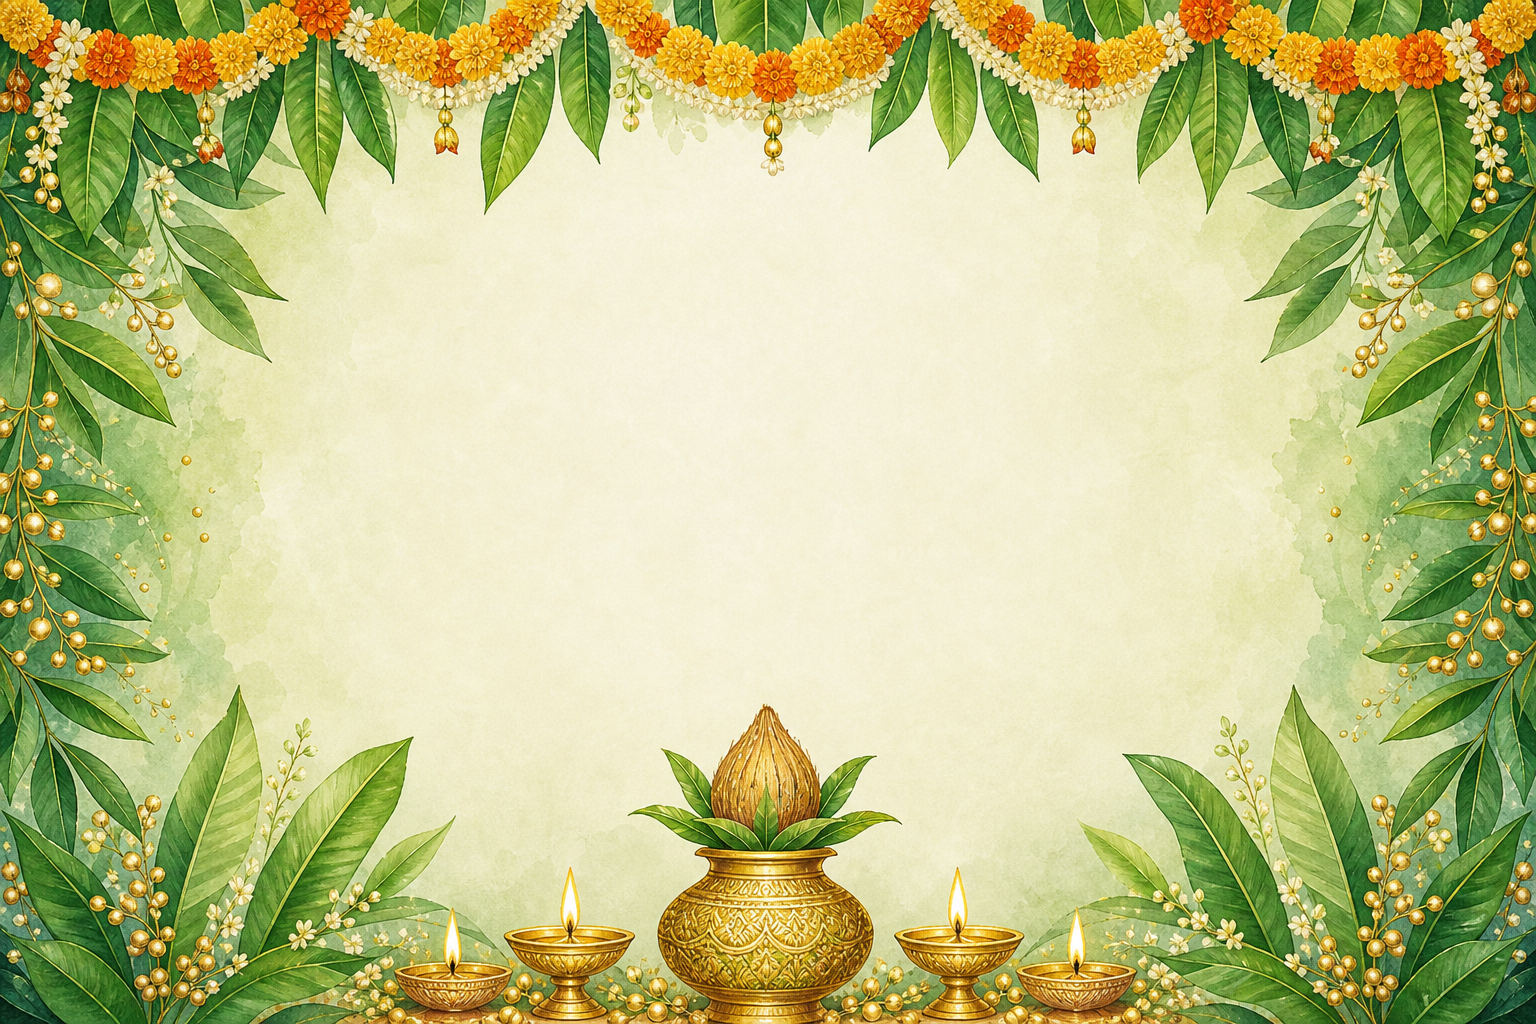
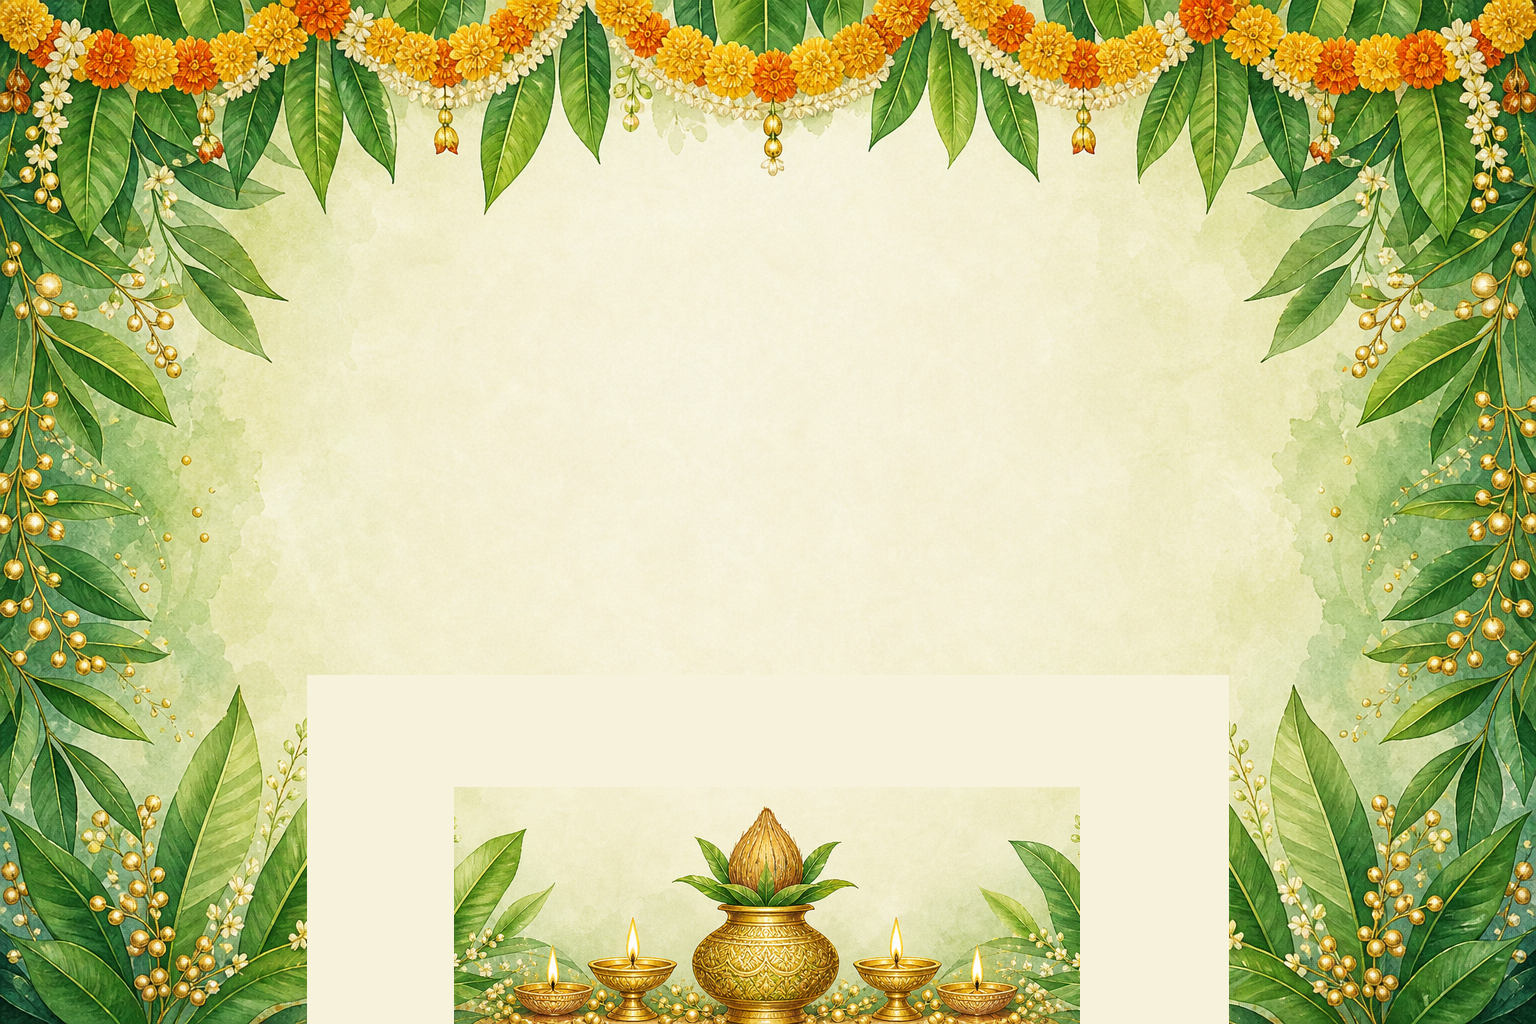
Fix engagement 05 kalash and naming 05 text overlap
Shrink bottom kalash/diya cluster on Mango Leaf Gold source art.
Remove naming Tulsi Paladai dotted divider, soften cream/green band,
and shift baby footprints into the footer. Tighten per-template text
zones and regenerate WebP assets.

Changed region(s): [[0.1875, 0.6562, 0.8125, 1.0], [0.3438, 0.75, 0.375, 0.7812]]

diff --git a/app/src/main/java/com/vaangainvite/core/image/InvitationLayout.kt b/app/src/main/java/com/vaangainvite/core/image/InvitationLayout.kt
@@ -95,12 +95,21 @@ internal object InvitationLayout {
         "engagement_02" to photoCardTextZone,
         "engagement_03" to photoCardTextZone,
         "engagement_04" to photoCardTextZone,
-        "engagement_05" to photoCardTextZone,
+        // Mango Leaf Gold — kalash cluster at bottom; keep copy above vessel.
+        "engagement_05" to photoCardTextZone.copy(
+            bottom = 1088f,
+            messageBottom = 1045f
+        ),
         "naming_01" to photoCardTextZone,
         "naming_02" to photoCardTextZone,
         "naming_03" to photoCardTextZone,
         "naming_04" to photoCardTextZone,
-        "naming_05" to photoCardTextZone
+        // Tulsi Paladai — no inner divider; footprints sit in lower footer only.
+        "naming_05" to photoCardTextZone.copy(
+            bottom = 1095f,
+            messageBottom = 1055f,
+            photoTextGap = 18f
+        )
     )
 
     private val templatePhotoFrames = mapOf(

diff --git a/tools/patch_photo_card_sources.py b/tools/patch_photo_card_sources.py
@@ -1,0 +1,88 @@
+#!/usr/bin/env python3
+"""One-off art fixes on designed photo-card source PNGs before WebP conversion."""
+
+from __future__ import annotations
+
+from pathlib import Path
+
+from PIL import Image, ImageDraw
+
+SRC = Path(__file__).parent / "bg_sources"
+
+
+def sample_cream(im: Image.Image, x: int | None = None, y: int | None = None) -> tuple[int, int, int]:
+    w, h = im.size
+    x = w // 2 if x is None else x
+    y = int(h * 0.48) if y is None else y
+    patch = im.crop((x - 16, y - 16, x + 16, y + 16))
+    pixels = list(
+        patch.get_flattened_data() if hasattr(patch, "get_flattened_data") else patch.getdata()
+    )
+    pixels.sort(key=lambda c: c[0] + c[1] + c[2])
+    return pixels[len(pixels) // 2]
+
+
+def shrink_engagement_05_bottom(im: Image.Image, scale: float = 0.68) -> Image.Image:
+    """Scale down center kalash + diyas so they do not crowd the text band."""
+    w, h = im.size
+    left, top, right, bottom = int(w * 0.20), int(h * 0.66), int(w * 0.80), h
+    region = im.crop((left, top, right, bottom))
+    rw, rh = region.size
+    new_w = max(1, int(rw * scale))
+    new_h = max(1, int(rh * scale))
+    scaled = region.resize((new_w, new_h), Image.Resampling.LANCZOS)
+
+    out = im.copy()
+    cream = sample_cream(im, w // 2, int(h * 0.42))
+    draw = ImageDraw.Draw(out)
+    draw.rectangle((left, top, right, bottom), fill=cream)
+
+    paste_x = left + (rw - new_w) // 2
+    paste_y = bottom - new_h
+    out.paste(scaled, (paste_x, paste_y))
+    return out
+
+
+def patch_naming_05(im: Image.Image) -> Image.Image:
+    """Remove inner dotted divider; shift baby footprints down away from copy."""
+    w, h = im.size
+    out = im.copy()
+    cream = sample_cream(im, w // 2, int(h * 0.50))
+    draw = ImageDraw.Draw(out)
+
+    # Dotted gold rule below the inner frame (inside cream text panel).
+    draw.rectangle((int(w * 0.26), 552, int(w * 0.74), 598), fill=cream)
+
+    # Cream/green separator: remove paired gold rules + patterned strip (keep soft color fade).
+    band_top, band_bottom = 706, 742
+    green = tuple(im.getpixel((w // 2, band_bottom + 36))[:3])
+    for y in range(band_top, band_bottom):
+        t = (y - band_top) / max(1, band_bottom - band_top - 1)
+        fill = tuple(int(cream[i] * (1 - t) + green[i] * t) for i in range(3))
+        draw.line([(int(w * 0.24), y), (int(w * 0.76), y)], fill=fill, width=1)
+
+    # Baby footprints + side flourishes — move down into the green footer.
+    feet_box = (int(w * 0.40), 700, int(w * 0.60), 776)
+    shift_y = 62
+    feet = im.crop(feet_box)
+    draw.rectangle(feet_box, fill=cream)
+    out.paste(feet, (feet_box[0], feet_box[1] + shift_y))
+    return out
+
+
+def main() -> int:
+    e_src = SRC / "engagement_05_source.png"
+    n_src = SRC / "naming_05_source.png"
+
+    eng = Image.open(e_src).convert("RGB")
+    shrink_engagement_05_bottom(eng).save(e_src)
+    print(f"Patched {e_src.name}")
+
+    nam = Image.open(n_src).convert("RGB")
+    patch_naming_05(nam).save(n_src)
+    print(f"Patched {n_src.name}")
+    return 0
+
+
+if __name__ == "__main__":
+    raise SystemExit(main())
